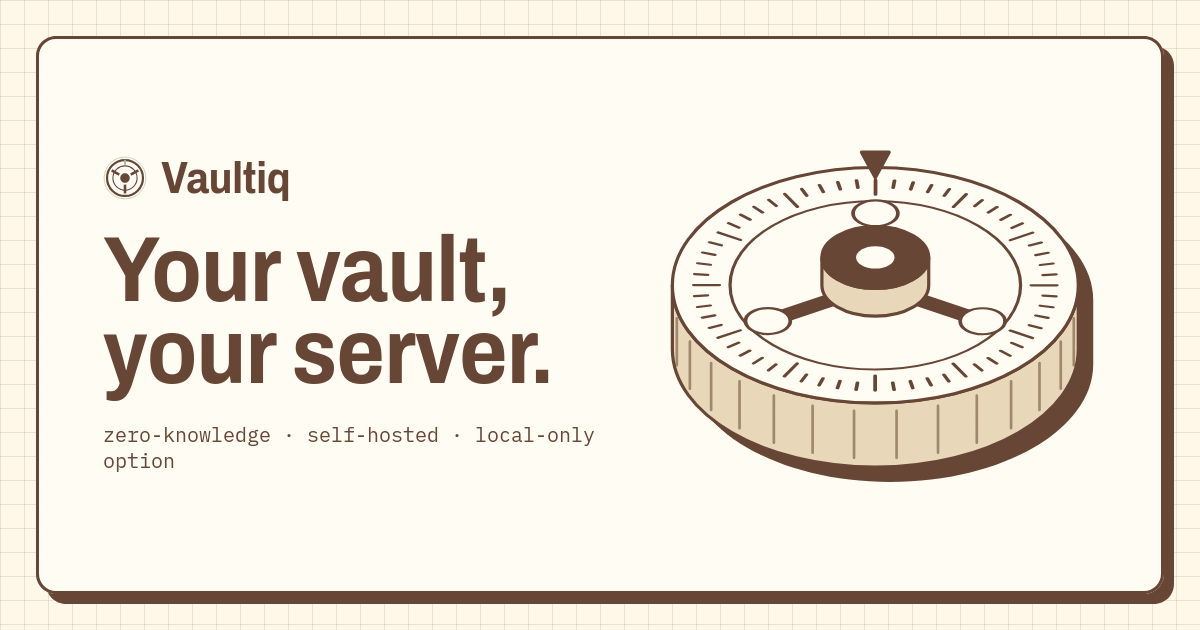
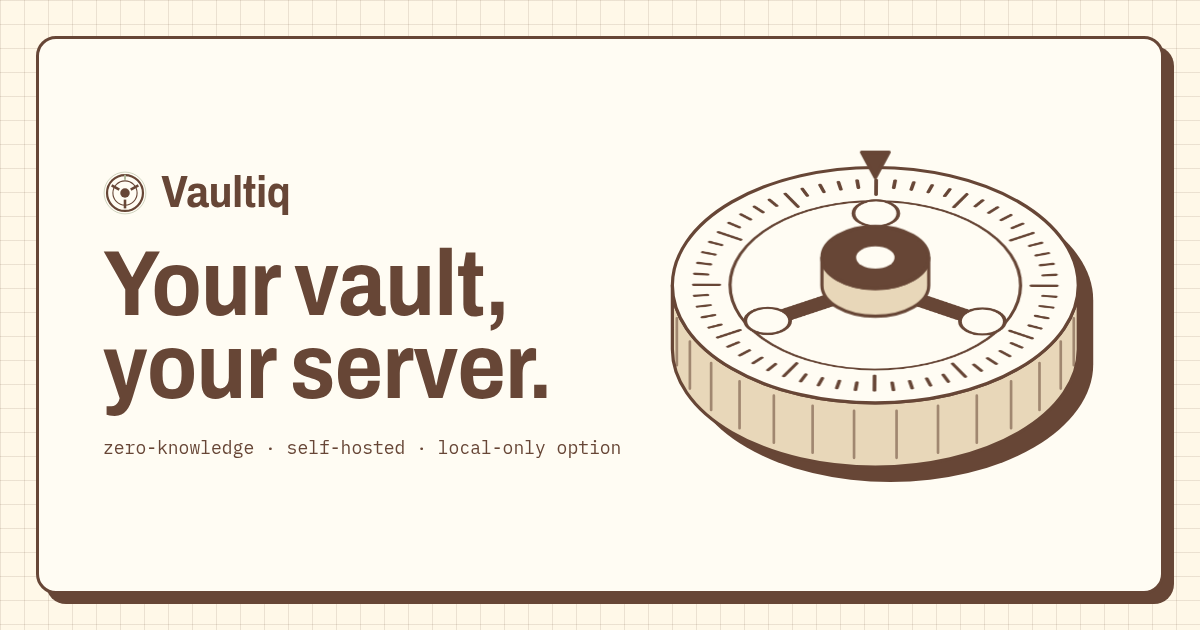
fix(site): keep social image subtitle on one line
- og-source.html: subtitle 20px to 18px, no wrap, so "option" no longer sits alone on a second line
- og.png: re-rendered from the source with headless Chromium

Verified: rendered at 1200x630 and checked by eye; the unmodified source reproduces the current image to within 0.7% of pixels

diff --git a/site/og-source.html b/site/og-source.html
@@ -71,7 +71,7 @@ html{scroll-behavior:smooth}*{min-width:0}*,*::before,*::after{box-sizing:border
 <div style="display: flex; flex-direction: column; gap: 28px">
 <div style="display: flex; align-items: center; gap: 14px"><img class="theme-logo--light" src="assets/logo/mark-primary.svg" alt="" style="width:44px;height:44px"><img class="theme-logo--dark" src="assets/logo/mark-reversed.svg" alt="" aria-hidden="true" style="width:44px;height:44px"><span class="cond" style="font-size: 44px">Vaultiq</span></div>
 <div class="cond" style="font-size: 92px; line-height: .9">Your vault,<br>your server.</div>
-<div class="mono" style="font-size: 20px">zero-knowledge · self-hosted · local-only option</div>
+<div class="mono" style="font-size: 18px; white-space: nowrap">zero-knowledge · self-hosted · local-only option</div>
 </div>
 <div><svg class="hero-dial" viewBox="50 60 440 356" width="100%" role="img" aria-label="Illustration: a chunky vault dial with three spokes" style="display: block"><path d="M84.0 224.0 L84.0 284.0 A190 110.2 0 0 0 464.0 284.0 L464.0 224.0 A190 110.2 0 0 0 84.0 224.0 Z" style="fill: var(--shadow)"></path><path d="M70.0 210.0 L70.0 270.0 A190 110.2 0 0 0 450.0 270.0 L450.0 210.0 A190 110.2 0 0 1 70.0 210.0 Z" style="fill: var(--side); stroke: var(--ink); stroke-width: 3; stroke-linejoin: round"></path><path d="M445.8 240.9V284.9M433.6 262.8V306.8M413.7 282.8V326.8M387.1 299.9V343.9M355.0 313.4V357.4M318.7 322.8V366.8M279.9 327.6V371.6M240.1 327.6V371.6M201.3 322.8V366.8M165.0 313.4V357.4M132.9 299.9V343.9M106.3 282.8V326.8M86.4 262.8V306.8M74.2 240.9V284.9" style="stroke: var(--ink); stroke-width: 2.5; stroke-linecap: round; opacity: .55"></path><ellipse cx="260" cy="210" rx="190" ry="110.2" style="fill: var(--card); stroke: var(--ink); stroke-width: 3"></ellipse><g transform="translate(260 210) scale(1 0.58)"><g class="vq-spin"><circle r="136" style="fill: none; stroke: var(--ink); stroke-width: 3"></circle><path d="M146.0 0.0L170.0 0.0M157.1 16.5L169.1 17.8M154.5 32.9L166.3 35.3M150.3 48.8L161.7 52.5M144.3 64.3L155.3 69.1M126.4 73.0L147.2 85.0M127.8 92.9L137.5 99.9M117.4 105.7L126.3 113.8M105.7 117.4L113.8 126.3M92.9 127.8L99.9 137.5M73.0 126.4L85.0 147.2M64.3 144.3L69.1 155.3M48.8 150.3L52.5 161.7M32.9 154.5L35.3 166.3M16.5 157.1L17.8 169.1M0.0 146.0L0.0 170.0M-16.5 157.1L-17.8 169.1M-32.9 154.5L-35.3 166.3M-48.8 150.3L-52.5 161.7M-64.3 144.3L-69.1 155.3M-73.0 126.4L-85.0 147.2M-92.9 127.8L-99.9 137.5M-105.7 117.4L-113.8 126.3M-117.4 105.7L-126.3 113.8M-127.8 92.9L-137.5 99.9M-126.4 73.0L-147.2 85.0M-144.3 64.3L-155.3 69.1M-150.3 48.8L-161.7 52.5M-154.5 32.9L-166.3 35.3M-157.1 16.5L-169.1 17.8M-146.0 0.0L-170.0 0.0M-157.1 -16.5L-169.1 -17.8M-154.5 -32.9L-166.3 -35.3M-150.3 -48.8L-161.7 -52.5M-144.3 -64.3L-155.3 -69.1M-126.4 -73.0L-147.2 -85.0M-127.8 -92.9L-137.5 -99.9M-117.4 -105.7L-126.3 -113.8M-105.7 -117.4L-113.8 -126.3M-92.9 -127.8L-99.9 -137.5M-73.0 -126.4L-85.0 -147.2M-64.3 -144.3L-69.1 -155.3M-48.8 -150.3L-52.5 -161.7M-32.9 -154.5L-35.3 -166.3M-16.5 -157.1L-17.8 -169.1M-0.0 -146.0L-0.0 -170.0M16.5 -157.1L17.8 -169.1M32.9 -154.5L35.3 -166.3M48.8 -150.3L52.5 -161.7M64.3 -144.3L69.1 -155.3M73.0 -126.4L85.0 -147.2M92.9 -127.8L99.9 -137.5M105.7 -117.4L113.8 -126.3M117.4 -105.7L126.3 -113.8M127.8 -92.9L137.5 -99.9M126.4 -73.0L147.2 -85.0M144.3 -64.3L155.3 -69.1M150.3 -48.8L161.7 -52.5M154.5 -32.9L166.3 -35.3M157.1 -16.5L169.1 -17.8" style="stroke: var(--ink); stroke-width: 3.5; stroke-linecap: round"></path><path d="M0 0L0.0 -116.0M0 0L100.5 58.0M0 0L-100.5 58.0" style="stroke: var(--ink); stroke-width: 20; stroke-linecap: round"></path><circle cx="0.0" cy="-116.0" r="21" class="dl-knob"></circle><circle cx="100.5" cy="58.0" r="21" class="dl-knob"></circle><circle cx="-100.5" cy="58.0" r="21" class="dl-knob"></circle></g></g><path d="M210.0 184.0 L210.0 210.0 A50 29.0 0 0 0 310.0 210.0 L310.0 184.0 A50 29.0 0 0 1 210.0 184.0 Z" style="fill: var(--side); stroke: var(--ink); stroke-width: 3; stroke-linejoin: round"></path><ellipse cx="260" cy="184" rx="50" ry="29.0" style="fill: var(--ink); stroke: var(--ink); stroke-width: 3"></ellipse><ellipse cx="260" cy="184" rx="18" ry="10.4" style="fill: var(--card)"></ellipse><path d="M247 85.4H273L260 109.4Z" style="fill: var(--ink); stroke: var(--ink); stroke-width: 3; stroke-linejoin: round"></path></svg></div>
 </div>
